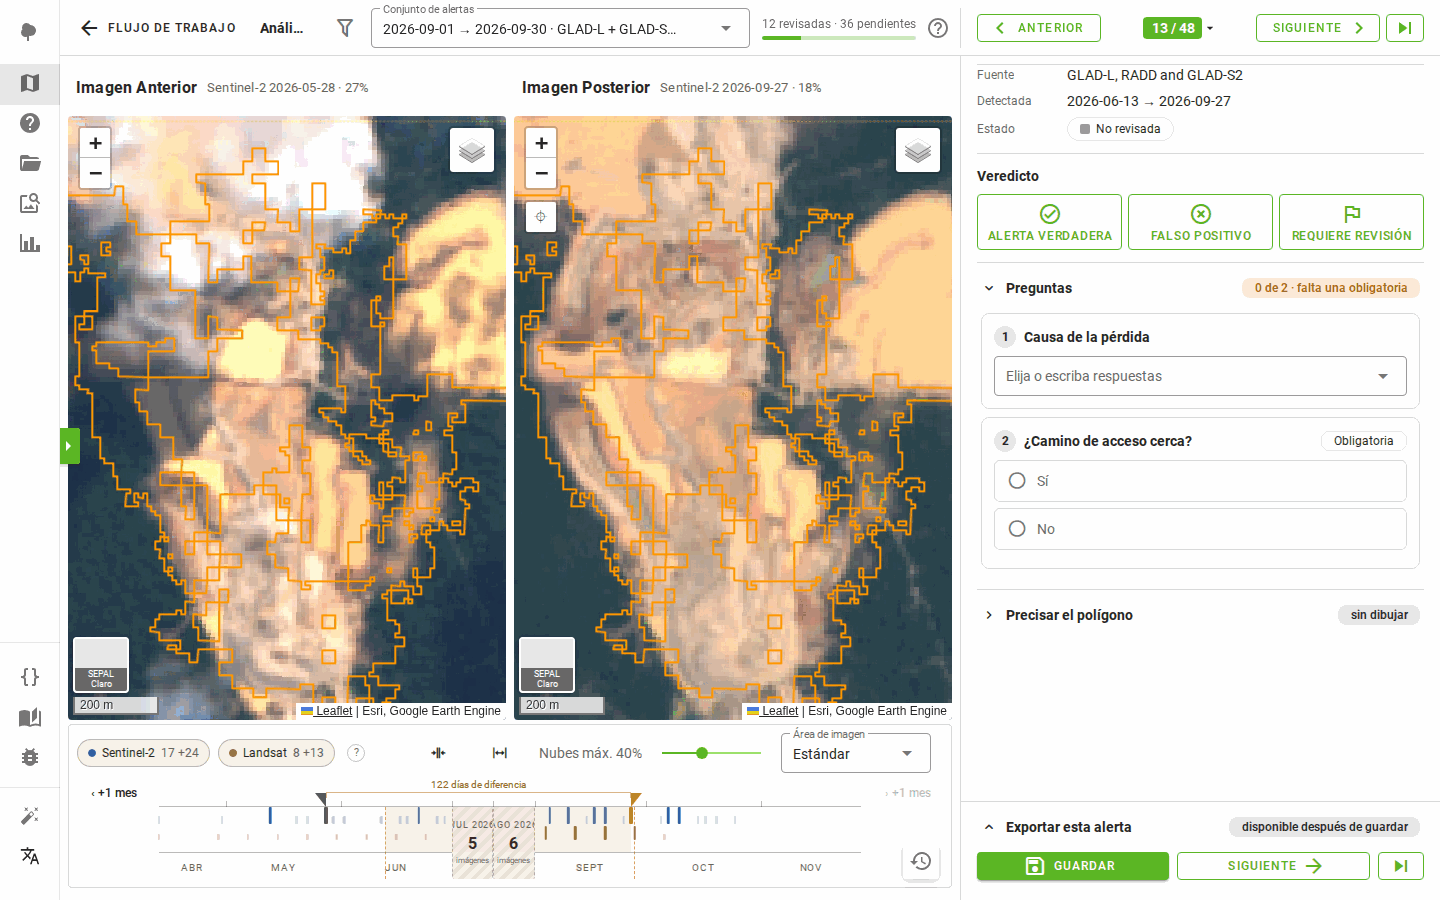
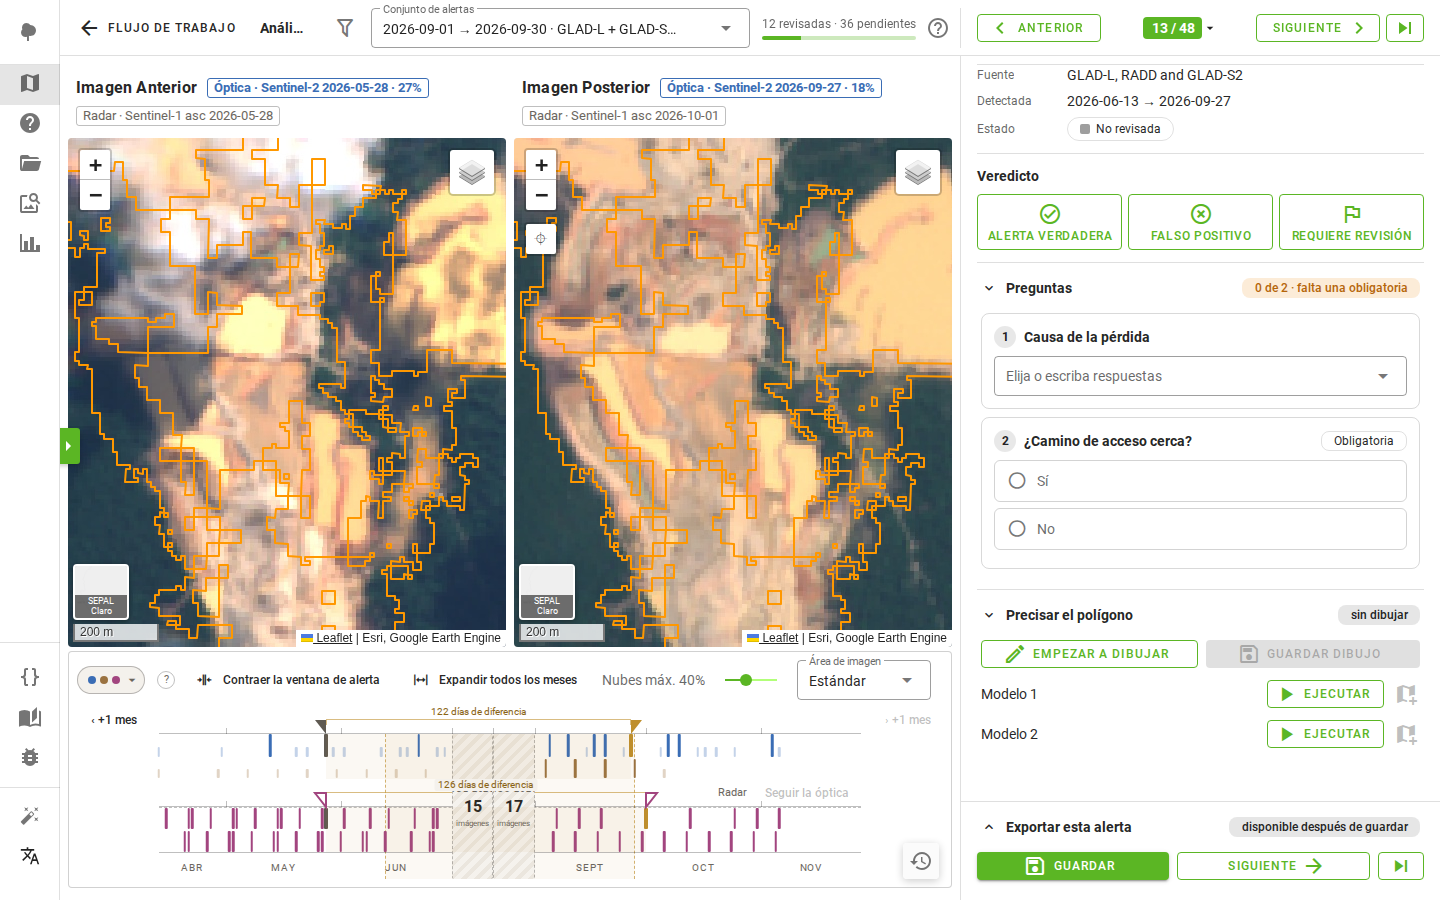
docs: timeline and Analysis shots with the radar lane
The capture turns Sentinel-1 on for the two shots (and off after: the
choice is saved on the project). The radar lane's "N days apart" now
sits over the collapsed-month blocks instead of under them.

diff --git a/tools/docs/capture.py b/tools/docs/capture.py
@@ -1456,19 +1456,49 @@ def guide_alert_reviewed(page):
         review_alert(page, "true", "loss_driver1")
 
 
+def radar(page, on: bool):
+    """Turn Sentinel-1 on or off in the timeline's Image sources menu (saved on
+    the project, so a shot that turns it on turns it off again after). On, it
+    waits until the radar stripes stop arriving and both radar chips show."""
+    tl = page.locator(".analysis-timeline:visible").first
+    tl.locator(f'button[aria-label="{T("analysis.timeline.sources_button")}"]').first.click()
+    item = page.locator('button[role="menuitemcheckbox"]:has-text("Sentinel-1")').first
+    item.wait_for(state="visible", timeout=10000)
+    if (item.get_attribute("aria-checked") == "true") != on:
+        item.click()
+        wait(page, 800)
+    page.mouse.click(VIEWPORT["width"] - 240, VIEWPORT["height"] - 300)  # close the menu (Escape does not)
+    if not on:
+        return
+    stripes = tl.locator('button[tabindex="-1"][aria-label^="Sentinel-1"]')
+    chips = page.locator('button[aria-pressed]:has-text("Sentinel-1")')
+    last, stable, t0 = -1, 0, time.time()
+    while stable < 4 or chips.count() < 2:
+        if time.time() - t0 > 600:
+            raise AssertionError(f"radar stripes still arriving after 10 min ({last}, {chips.count()} chips)")
+        wait(page, 5000)
+        n = stripes.count()
+        stable, last = (stable + 1 if n == last and n > 0 else 0), n
+
+
 def shot_analysis_screen(page):
     guide_alert(page)
     if reviewed() != 12 or store().set_index("alert_id").loc[GUIDE_ALERT, "status"] != "Not reviewed":
         raise AssertionError("analysis-screen wants 12 reviewed alerts and the guide's alert not reviewed")
+    radar(page, True)
     open_section(page, T("analysis_tile.sections.questions"))
+    maps_ready(page)
     quiet(page)
     save(page, "analysis-screen")
+    radar(page, False)
 
 
 def shot_analysis_timeline(page):
     guide_alert(page)
+    radar(page, True)
     quiet(page)
     save(page, "analysis-timeline", box(page, ".analysis-timeline"), pad=2)
+    radar(page, False)
 
 
 def shot_analysis_console(page):

diff --git a/gui/tile/analysis/timeline.py b/gui/tile/analysis/timeline.py
@@ -98,6 +98,9 @@ THEME_CSS = (
     f".analysis-stage.analysis-stage--dark, body:has(.analysis-stage--dark) .{SOURCES_MENU_CLASS} {{ {_VARS_DARK} "
     "--dat-muted: #a8a39b; --dat-warn: #d9ab4e; --dat-ink: #f0ece6; "
     "--dat-chip: #24221f; --dat-fold-a: #24221f; --dat-fold-b: #1e1c1a; --dat-edge: #44403a; } "
+    # the radar rail runs through the collapsed-month blocks: lift its "N days
+    # apart" over them, on a chip so the block's text does not show through
+    ".defo-tl-radar-box .dah-gap { z-index: 4; background: var(--dat-chip); padding: 0 4px; border-radius: 2px; } "
 )
 HIT_PX = 11
 #: a collapsed month at least this wide carries its full label ("JUN 2026",
@@ -633,7 +636,7 @@ def build_timeline(app_state, analysis, widgets, *, labels=None):
                          children=[radar_name, follow_btn])
     #: the radar rail and lane, or nothing while Sentinel-1 is off. Its
     #: children are set, never replaced (``replace_children`` would close them).
-    radar_box = v.Html(tag="div", style_="position: relative", children=[])
+    radar_box = v.Html(tag="div", class_="defo-tl-radar-box", style_="position: relative", children=[])
     track = v.Html(tag="div", style_=_TRACK_STYLE,
                    children=[strip, parent_bands, window_band, lane, radar_box, lane_axis, blocks])
     message = v.Html(tag="div", style_=_MESSAGE_STYLE, children=[])
